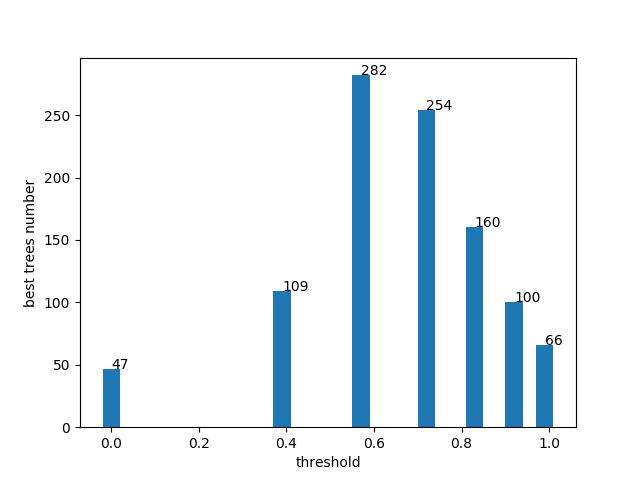
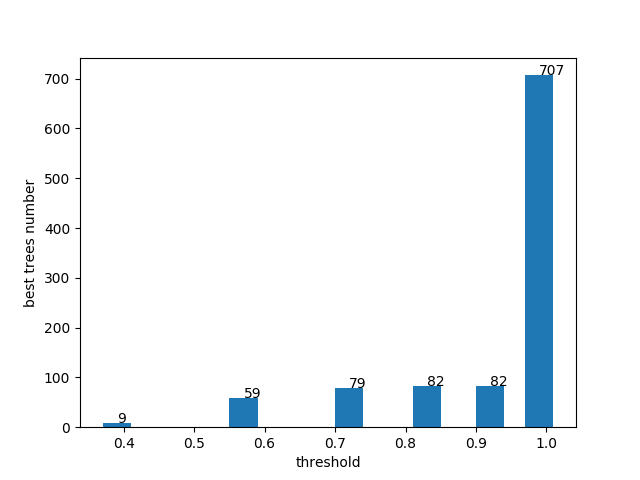
update experiments results

diff --git a/tools/treerecs/analyze_best_trees.py b/tools/treerecs/analyze_best_trees.py
@@ -48,7 +48,7 @@ class AllTreeEntries(object):
       self.best_entries[family] = entry
     else:
       family_entries = self.all_entries[family]
-      if (self.best_entries[family].joint_ll < entry.joint_ll):
+      if (self.best_entries[family].joint_ll <= entry.joint_ll):
         self.best_entries[family] = entry
     family_entries[threshold] = entry
     #print("Entry: " + str(entry))
@@ -110,16 +110,16 @@ if (len(sys.argv) != 3):
 
 treerecs_output = sys.argv[1]
 output = sys.argv[2]
-
+trees_output = os.path.join(output, "trees")
 all_entries = AllTreeEntries(treerecs_output)
 
 try:
-  os.makedirs(output)
+  os.makedirs(trees_output)
 except:
   pass
 histo = all_entries.get_best_thresholds_histogram()
 print(sorted(histo.items(), key=lambda x: x[0]))
 plot_histogram(histo, os.path.join(output, "threshold_histogram.png"), "threshold", "best trees number")
-all_entries.save_per_threshold_trees(output, "trees_for_threshold_")
+all_entries.save_per_threshold_trees(trees_output, "trees_for_threshold_")
 
 
